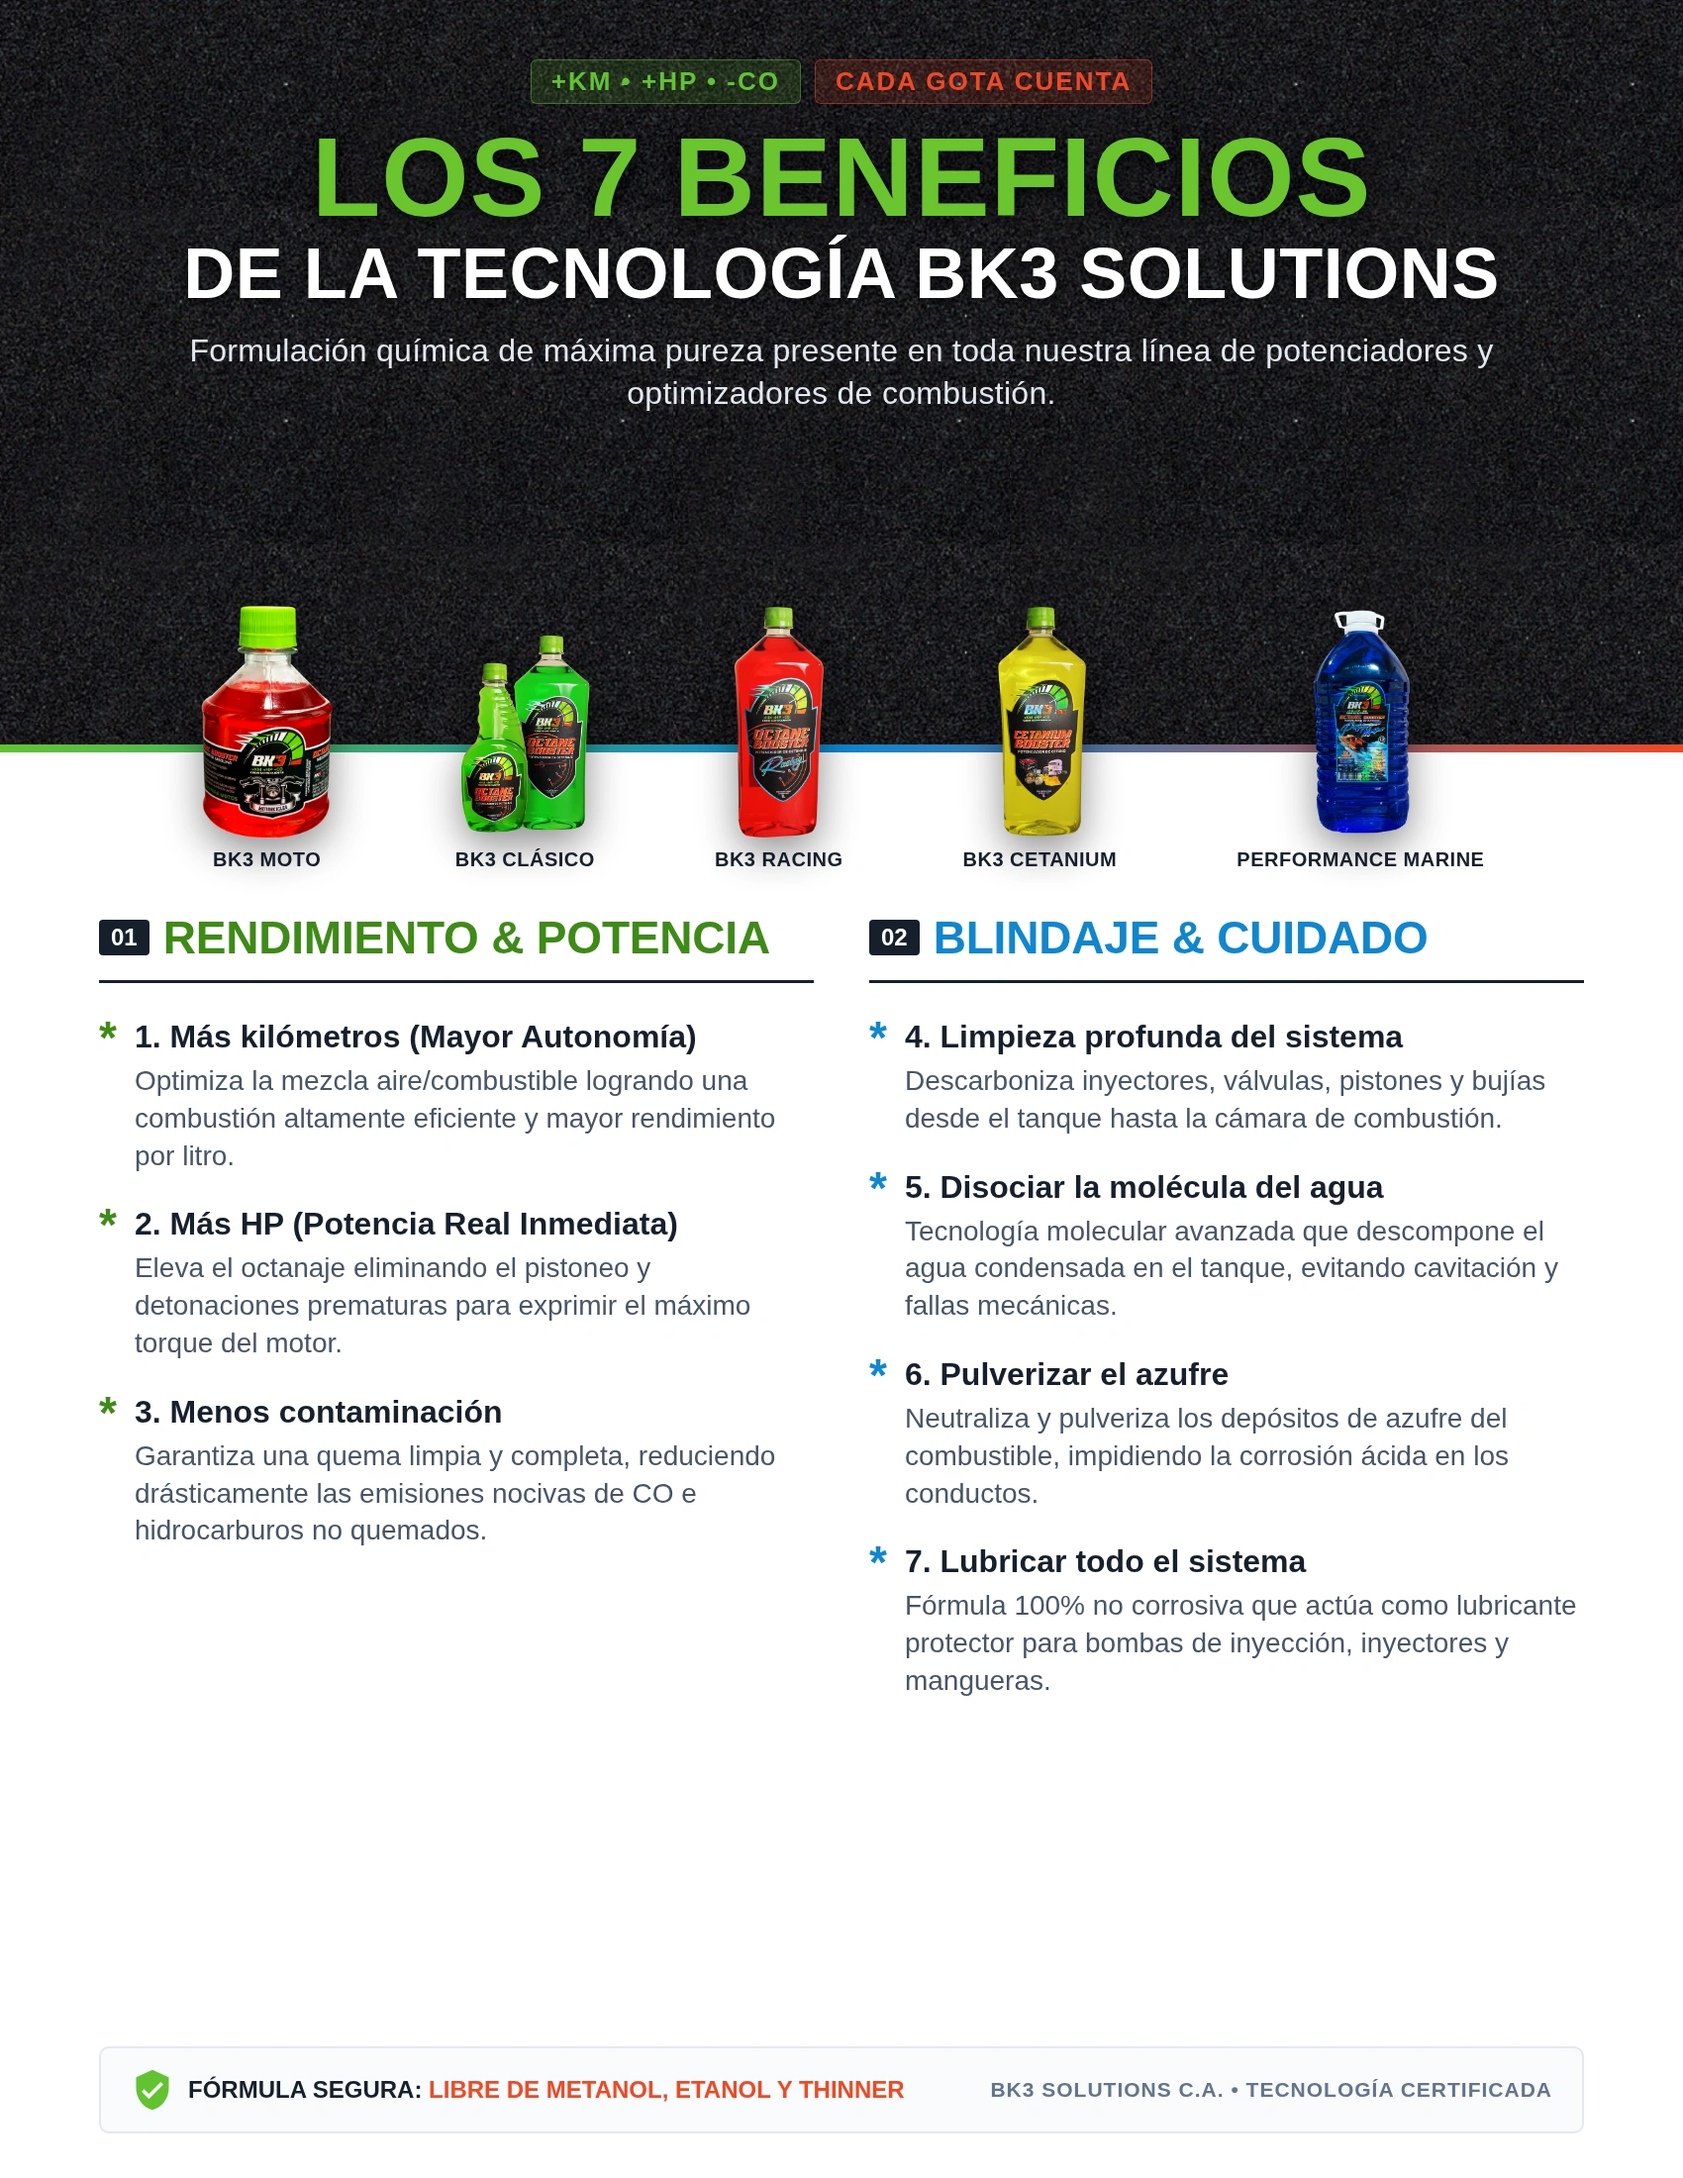
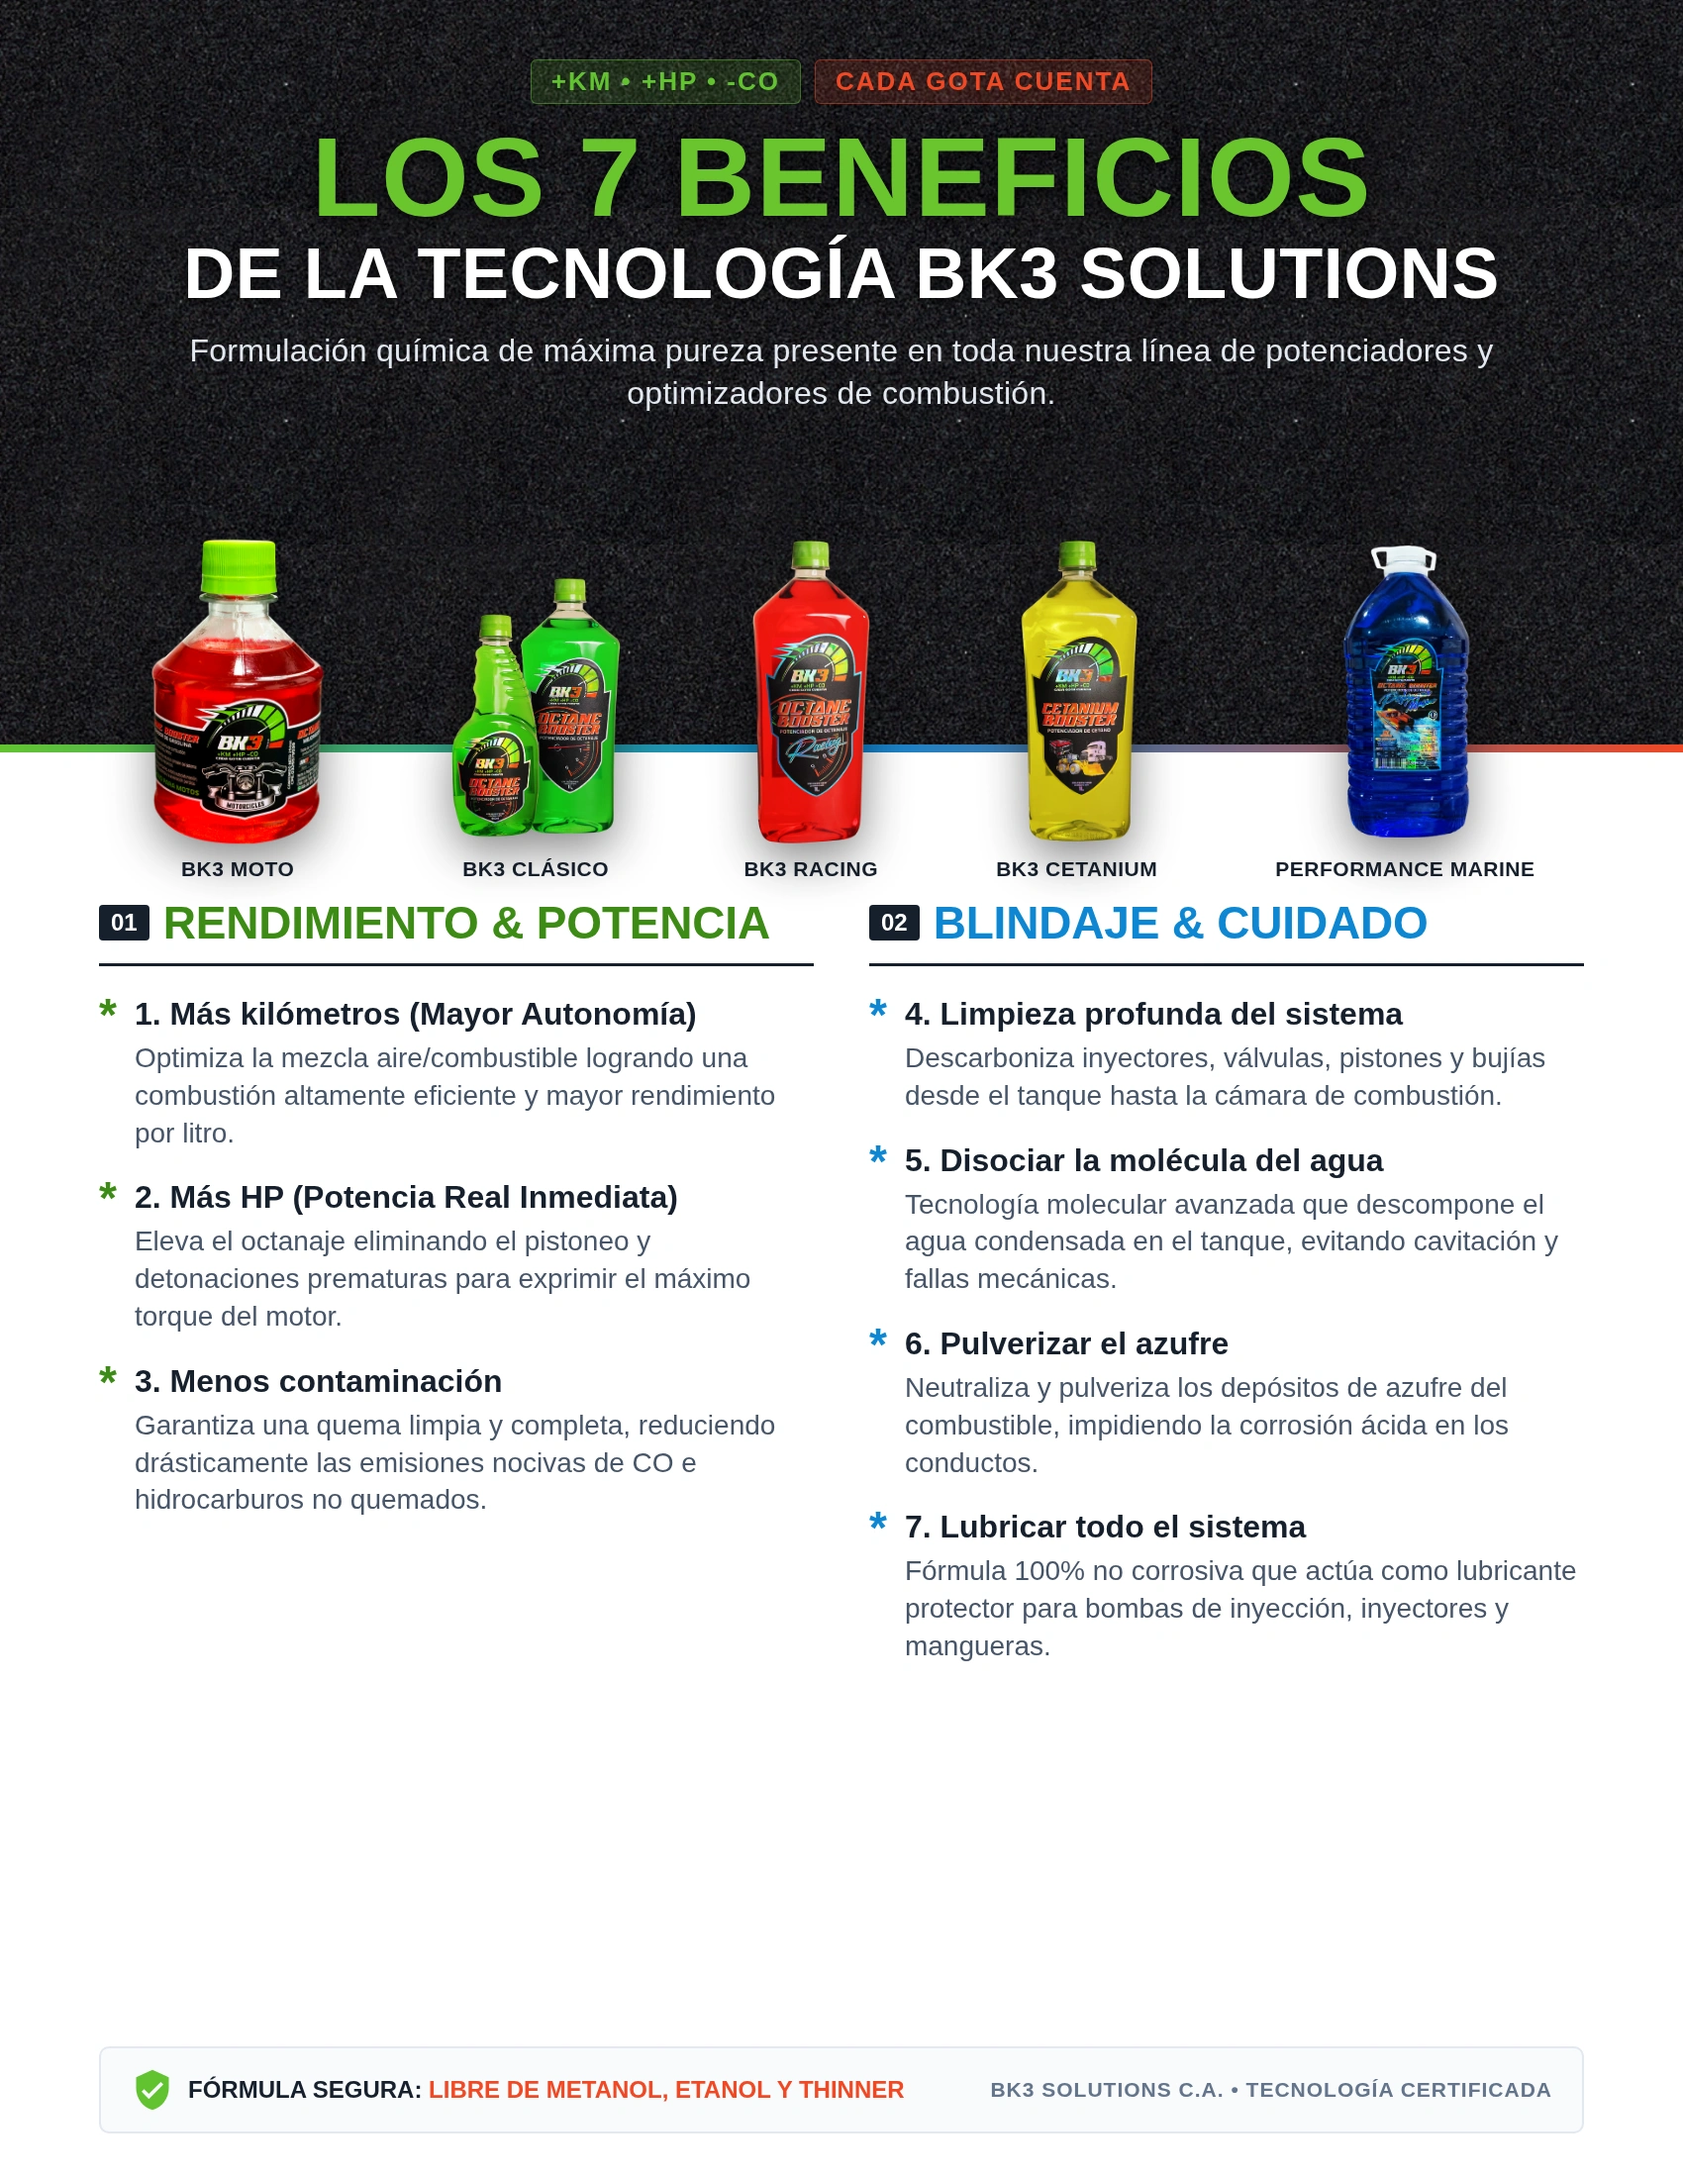
feat: Optimización de espaciado y altura de tarjetas en Página 2 (Índice) y ampliación proporcional de botellas en Página 11 (7 Beneficios)

Changed region(s): [[0.0624, 0.2473, 0.9353, 0.7727]]

diff --git a/css/style.css b/css/style.css
@@ -798,7 +798,7 @@ html, body {
 
 /* Mitad Superior: Encabezado editorial sobre asfalto compacto y equilibrado */
 .index-top-section {
-  padding: 14px 18px 10px 18px;
+  padding: 20px 20px 14px 20px;
   display: flex;
   flex-direction: column;
   align-items: center;
@@ -809,24 +809,24 @@ html, body {
 
 .index-badge {
   font-family: 'NeueRegrade', var(--font-body);
-  font-size: 0.7rem;
-  letter-spacing: 1.5px;
+  font-size: 0.76rem;
+  letter-spacing: 1.8px;
   text-transform: uppercase;
   font-weight: 700;
   color: var(--color-clasico);
   background: rgba(98, 195, 49, 0.15);
   border: 1px solid rgba(98, 195, 49, 0.45);
-  padding: 2px 10px;
+  padding: 3px 12px;
   border-radius: 4px;
-  margin-bottom: 4px;
+  margin-bottom: 5px;
 }
 
 .index-main-title {
   font-family: 'Benniter', var(--font-display);
-  font-size: 1.95rem;
+  font-size: 2.25rem;
   font-weight: 900;
   text-transform: uppercase;
-  letter-spacing: 0.6px;
+  letter-spacing: 0.8px;
   color: #ffffff;
   line-height: 1.05;
   text-shadow: 0 3px 12px rgba(0, 0, 0, 0.85);
@@ -835,10 +835,10 @@ html, body {
 
 .index-main-desc {
   font-family: 'NeueRegrade', var(--font-body);
-  font-size: 0.82rem;
+  font-size: 0.88rem;
   color: #cbd5e1;
-  max-width: 440px;
-  line-height: 1.25;
+  max-width: 460px;
+  line-height: 1.3;
   margin-top: 2px;
 }
 
@@ -848,7 +848,7 @@ html, body {
   min-height: 0;
   background: linear-gradient(180deg, #ffffff 0%, #f4f6f9 100%);
   border-radius: 12px 12px 0 0;
-  padding: 10px 14px 8px 14px;
+  padding: 12px 16px 8px 16px;
   color: var(--text-primary);
   display: flex;
   flex-direction: column;
@@ -868,40 +868,39 @@ html, body {
 .catalog-cards-list {
   display: flex;
   flex-direction: column;
-  justify-content: space-between;
-  height: 100%;
+  justify-content: space-evenly;
   flex: 1;
   min-height: 0;
-  gap: 6px;
+  gap: 8px;
 }
 
-/* Tarjeta de Producto: Legible, compacta y equilibrada (Cero desbordamientos) */
+/* Tarjeta de Producto: Proporción áurea, compacta, elegante y CERO recortes */
 .cat-item-card {
   flex: 1;
   min-height: 0;
-  max-height: 62px;
+  max-height: 82px;
   background: #ffffff;
-  border-top: 1px solid rgba(255, 255, 255, 0.9);
-  border-left: 1px solid rgba(226, 232, 240, 0.8);
-  border-right: 1px solid rgba(226, 232, 240, 0.8);
-  border-bottom: 1px solid rgba(203, 213, 225, 0.9);
-  border-radius: 8px;
-  padding: 6px 12px;
+  border-top: 1px solid rgba(255, 255, 255, 0.95);
+  border-left: 1px solid rgba(226, 232, 240, 0.85);
+  border-right: 1px solid rgba(226, 232, 240, 0.85);
+  border-bottom: 1px solid rgba(203, 213, 225, 0.95);
+  border-radius: 9px;
+  padding: 8px 14px;
   display: flex;
   align-items: center;
-  gap: 12px;
+  gap: 14px;
   cursor: pointer;
   position: relative;
   transition: transform 0.2s cubic-bezier(0.16, 1, 0.3, 1), box-shadow 0.2s ease, border-color 0.2s ease;
-  box-shadow: 0 2px 6px rgba(0, 0, 0, 0.04), inset 0 1px 1px rgba(255, 255, 255, 0.8);
+  box-shadow: 0 2px 7px rgba(0, 0, 0, 0.04), inset 0 1px 1px rgba(255, 255, 255, 0.9);
 }
 
 .cat-item-card::before {
   content: '';
   position: absolute;
   left: 0; top: 0; bottom: 0;
-  width: 4px;
-  border-radius: 8px 0 0 8px;
+  width: 5px;
+  border-radius: 10px 0 0 10px;
   transition: width 0.2s ease;
 }
 
@@ -912,34 +911,34 @@ html, body {
 .cat-item-card.cat-marine::before { background: var(--color-marine); }
 
 .cat-item-card:hover {
-  transform: translateX(3px) translateY(-1px);
+  transform: translateX(4px) translateY(-1px);
   background: #ffffff;
 }
 
 .cat-item-card.cat-moto:hover {
-  border-color: rgba(241, 72, 37, 0.4);
-  box-shadow: 0 4px 12px rgba(241, 72, 37, 0.15), inset 0 1px 1px rgba(255, 255, 255, 0.9);
+  border-color: rgba(241, 72, 37, 0.45);
+  box-shadow: 0 4px 14px rgba(241, 72, 37, 0.18), inset 0 1px 1px rgba(255, 255, 255, 0.9);
 }
 .cat-item-card.cat-clasico:hover {
-  border-color: rgba(98, 195, 49, 0.45);
-  box-shadow: 0 4px 12px rgba(98, 195, 49, 0.18), inset 0 1px 1px rgba(255, 255, 255, 0.9);
+  border-color: rgba(98, 195, 49, 0.5);
+  box-shadow: 0 4px 14px rgba(98, 195, 49, 0.2), inset 0 1px 1px rgba(255, 255, 255, 0.9);
 }
 .cat-item-card.cat-racing:hover {
-  border-color: rgba(237, 28, 36, 0.4);
-  box-shadow: 0 4px 12px rgba(237, 28, 36, 0.15), inset 0 1px 1px rgba(255, 255, 255, 0.9);
+  border-color: rgba(237, 28, 36, 0.45);
+  box-shadow: 0 4px 14px rgba(237, 28, 36, 0.18), inset 0 1px 1px rgba(255, 255, 255, 0.9);
 }
 .cat-item-card.cat-cetane:hover {
-  border-color: rgba(253, 185, 19, 0.45);
-  box-shadow: 0 4px 12px rgba(253, 185, 19, 0.16), inset 0 1px 1px rgba(255, 255, 255, 0.9);
+  border-color: rgba(253, 185, 19, 0.5);
+  box-shadow: 0 4px 14px rgba(253, 185, 19, 0.18), inset 0 1px 1px rgba(255, 255, 255, 0.9);
 }
 .cat-item-card.cat-marine:hover {
-  border-color: rgba(14, 135, 210, 0.4);
-  box-shadow: 0 4px 12px rgba(14, 135, 210, 0.15), inset 0 1px 1px rgba(255, 255, 255, 0.9);
+  border-color: rgba(14, 135, 210, 0.45);
+  box-shadow: 0 4px 14px rgba(14, 135, 210, 0.18), inset 0 1px 1px rgba(255, 255, 255, 0.9);
 }
 
 .cat-thumb-box {
-  width: 44px;
-  height: 50px;
+  width: 58px;
+  height: 70px;
   display: flex;
   align-items: center;
   justify-content: center;
@@ -951,7 +950,7 @@ html, body {
   max-width: 100%;
   max-height: 100%;
   object-fit: contain;
-  filter: drop-shadow(0 3px 6px rgba(0, 0, 0, 0.22));
+  filter: drop-shadow(0 4px 8px rgba(0, 0, 0, 0.25));
   transition: transform 0.25s ease;
 }
 
@@ -973,7 +972,7 @@ html, body {
 
 .cat-title {
   font-family: 'Benniter', var(--font-display);
-  font-size: 1.15rem;
+  font-size: 1.35rem;
   font-weight: 800;
   text-transform: uppercase;
   color: #0f172a;
@@ -986,12 +985,12 @@ html, body {
 
 .cat-jump-pill {
   font-family: 'NeueRegrade', var(--font-mono);
-  font-size: 0.68rem;
+  font-size: 0.76rem;
   font-weight: 700;
   color: #475569;
   background: #f1f5f9;
   border: 1px solid #cbd5e1;
-  padding: 2px 7px;
+  padding: 3px 9px;
   border-radius: 4px;
   letter-spacing: 0.5px;
   white-space: nowrap;
@@ -1009,14 +1008,14 @@ html, body {
   display: flex;
   align-items: center;
   justify-content: space-between;
-  margin-top: 3px;
+  margin-top: 5px;
 }
 
 .cat-pill {
   font-family: 'NeueRegrade', var(--font-body);
-  font-size: 0.68rem;
+  font-size: 0.75rem;
   font-weight: 700;
-  padding: 2px 6px;
+  padding: 3px 8px;
   border-radius: 4px;
   text-transform: uppercase;
   letter-spacing: 0.3px;
@@ -1024,7 +1023,7 @@ html, body {
 
 .cat-vol-tag {
   font-family: 'NeueRegrade', var(--font-body);
-  font-size: 0.68rem;
+  font-size: 0.75rem;
   color: #64748b;
   font-weight: 600;
 }

diff --git a/generate_7_beneficios_global.html b/generate_7_beneficios_global.html
@@ -129,15 +129,15 @@
     /* Vitrina de los 5 Productos BK3 alineados al corte horizontal */
     .products-showcase-strip {
       position: absolute;
-      top: 600px;
-      left: 100px;
-      right: 100px;
-      height: 280px;
+      top: 520px;
+      left: 70px;
+      right: 70px;
+      height: 370px;
       z-index: 10;
       display: flex;
       align-items: flex-end;
       justify-content: space-around;
-      padding: 0 40px;
+      padding: 0 20px;
     }
 
     .showcase-bottle-item {
@@ -149,17 +149,17 @@
     }
 
     .showcase-bottle-item img {
-      max-height: 240px;
+      max-height: 315px;
       object-fit: contain;
-      filter: drop-shadow(0 14px 20px rgba(0, 0, 0, 0.45));
+      filter: drop-shadow(0 16px 24px rgba(0, 0, 0, 0.48));
     }
 
     .showcase-bottle-label {
       font-family: 'NeueRegrade', sans-serif;
-      font-size: 20px;
+      font-size: 21px;
       font-weight: bold;
       color: #17202d;
-      margin-top: 8px;
+      margin-top: 10px;
       text-transform: uppercase;
       letter-spacing: 0.5px;
     }
@@ -173,7 +173,7 @@
       height: 1440px;
       background: #ffffff;
       z-index: 2;
-      padding: 160px 100px 60px 100px;
+      padding: 145px 100px 50px 100px;
     }
 
     .benefits-grid {
@@ -188,8 +188,8 @@
       align-items: center;
       gap: 14px;
       border-bottom: 3px solid #17202d;
-      padding-bottom: 16px;
-      margin-bottom: 34px;
+      padding-bottom: 14px;
+      margin-bottom: 28px;
     }
 
     .col-header-badge {
@@ -224,7 +224,7 @@
       display: flex;
       align-items: flex-start;
       gap: 18px;
-      margin-bottom: 30px;
+      margin-bottom: 26px;
     }
 
     .benefit-star {
